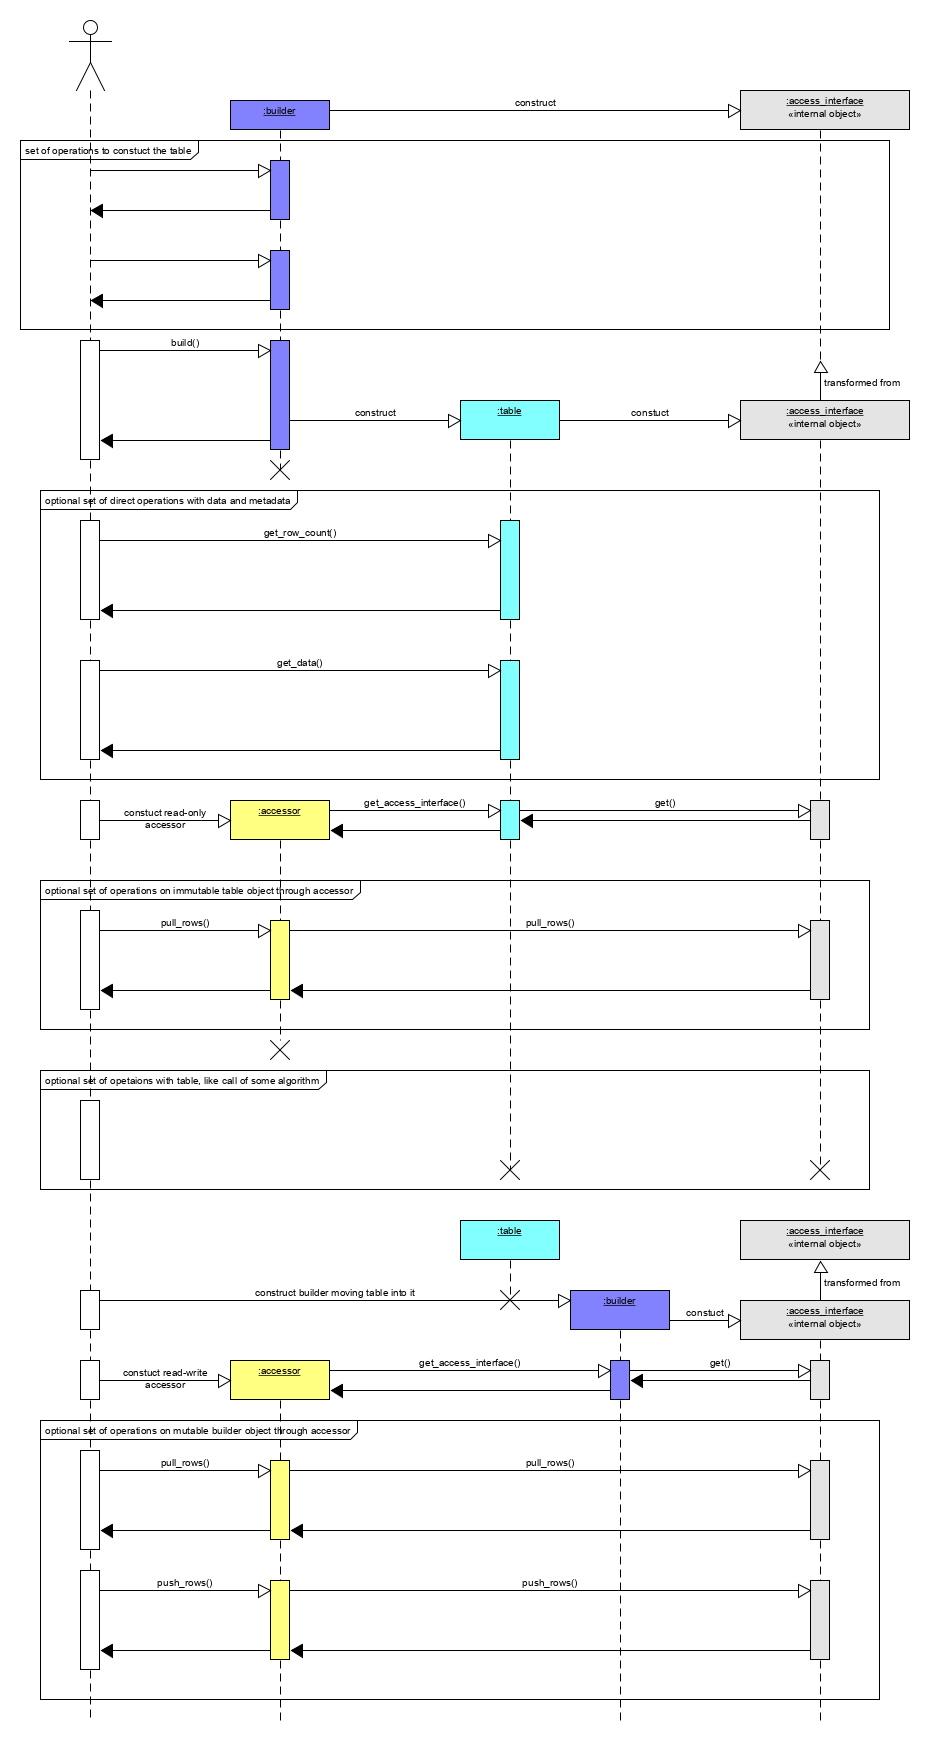
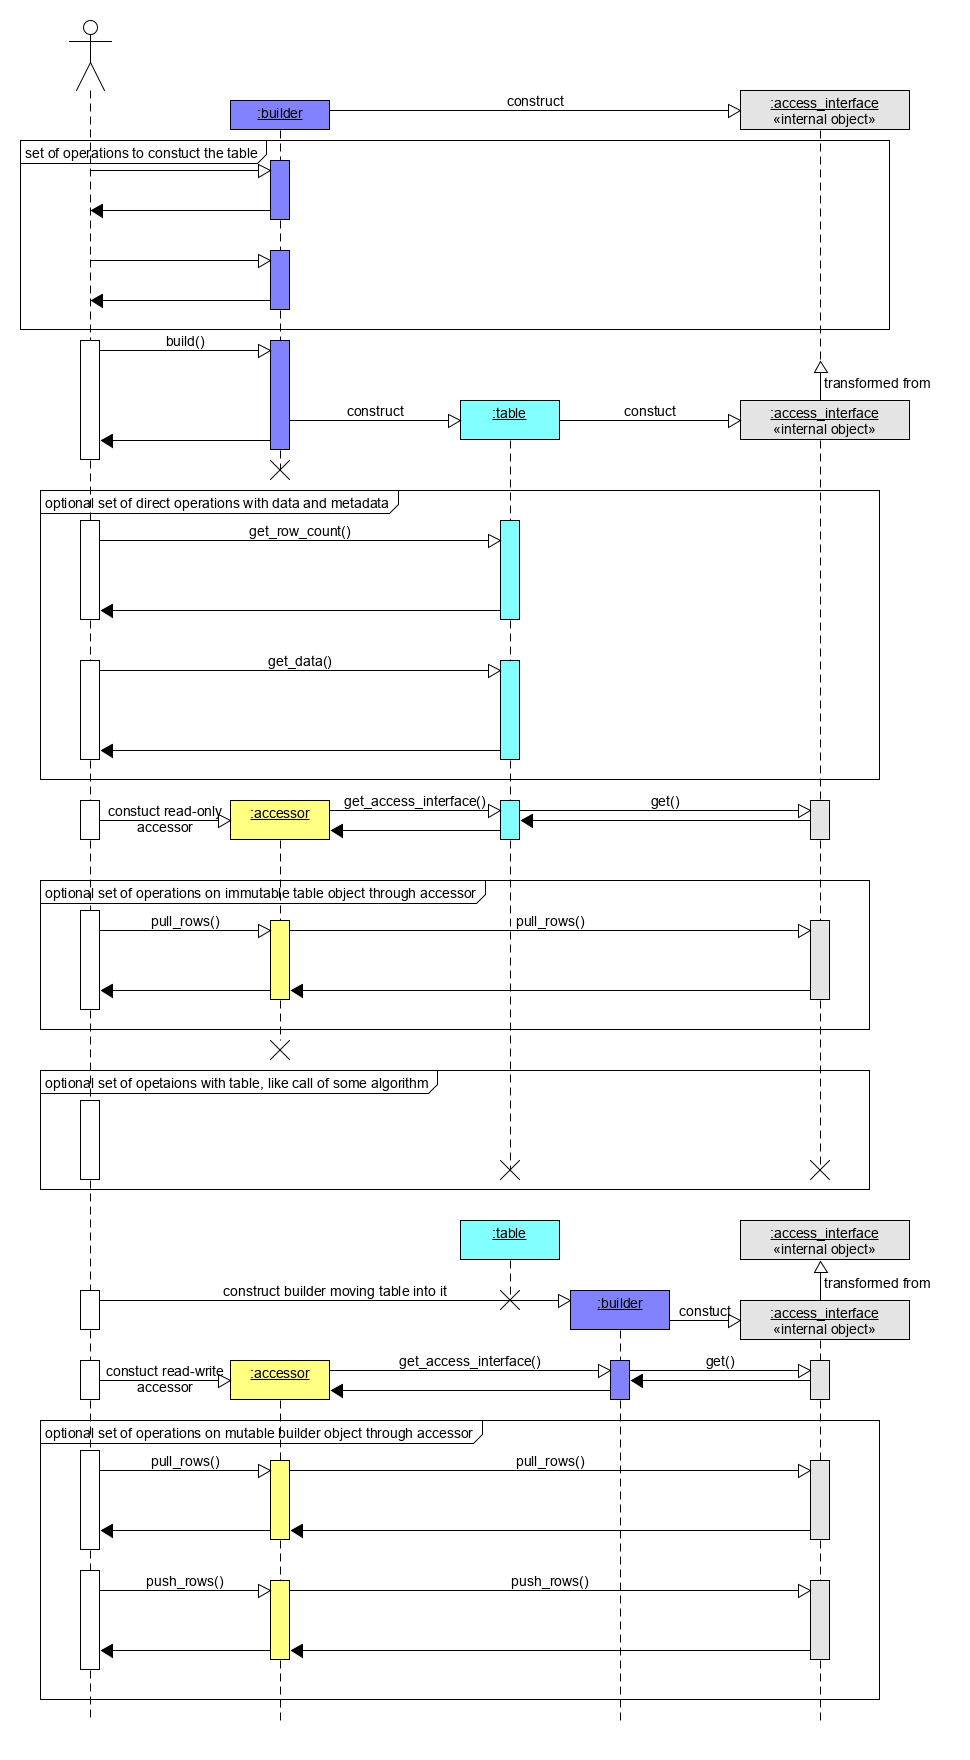
use-case example section fixed

diff --git a/source/elements/oneDAL/source/data_management/index.rst b/source/elements/oneDAL/source/data_management/index.rst
@@ -245,49 +245,44 @@ For details, see :ref:`accessors` section.
 Use-case example for table, accessor and table builder
 ------------------------------------------------------
 
-This section gives an basic usage scenario of :ref:`table`, :ref:`table-builder`
-and :ref:`accessor` concepts and relations between them. The following diagram
-shows objects of these concepts, which are highlighted by colors:
+This section provides a basic usage scenario of the :ref:`table`,
+:ref:`table-builder`, and :ref:`accessor` concepts and demonstrates the
+relations between them. :ref:`The following diagram
+<data_management_sequence_diagram>` shows objects of these concepts, which are
+highlighted by colors:
 
-- :ref:`table-builder` objects are blue
+- :ref:`Table builder <table-builder>` objects are blue.
 
-- :ref:`table` objects are cyan
+- :ref:`Table <table>` objects are cyan.
 
-- :ref:`accessors <Accessor>` are yellow
+- :ref:`Accessors <Accessor>` are yellow.
 
-- objects with gray background color are not a part of |dal_short_name|
-  specification and they are provided just for illustration purposes
+- Grey objects are not a part of |dal_short_name| specification and they are
+  provided just for illustration purposes.
 
-To perform some computations based on the dataset, one shall create a
-:ref:`table` object first. It can be done using :ref:`data-source` or
-:ref:`table-builder` objects depending on the situation. The diagram briefly
-shows a situation when :ref:`table` is created from :ref:`table-builder`
-interatively with calls of various member functions that update internal state
-of the builder. Then, the `build()` method is called which takes a snapshot of
-current builder state and creates a table from it.
-
-Once table object created, the data inside it can be accessed using member
-functions of table object or with help of read-only accessor as shown on the
-diagram. Table can be used in the computations as input or parameter of some
-algorithm.
-
-Algorithms results also contain table objects. If one needs to change the data
-inside some table, builder object can be constructed for this. If table object
-is unique (just only one reference exists), it can be moved inside builder -
-thus no copy operations of data will be performed. Data inside table builder can
-be retrieved by read-only, write-only or read-write accessors.
-
-Accessors present on the diagram allows to get data uniformly from tables and
-table builders as blocks of rows.
-
-Internal "access_interface" object present on the diagram depicts how table and
-table builder may share one implementation with different set of operations
-defined upon it on different stages of the lifetime. It shows how accessor
-object might know how to get data from different kind of objects.
+.. _data_management_sequence_diagram:
 
 .. image:: _static/table_builder_accessor_sequence.png
   :width: 800
   :alt: Sequence diagram of accessor-builder-table relations
+
+To perform computations on a dataset, one shall create a :ref:`table` object
+first. It can be done using a :ref:`data-source` or a :ref:`table-builder`
+object depending on the situation. The diagram briefly shows the situation when
+:ref:`table` is interatively created from a various external entities (not shown
+on a diagram) using a :ref:`table-builder`.
+
+Once a table object is created, the data inside it can be accessed by its own
+interface or with a help of a read-only accessor as shown on the diagram. The
+table can be used as an input in computations or as a parameter of some
+algorithm.
+
+Algorithms' results also contain table objects. If one needs to change the data
+within some table, a builder object can be constructed for this. Data inside a
+table builder can be retrieved by read-only, write-only or read-write accessors.
+
+Accessors present on the diagram allows to get data uniformly from tables and
+table builders as :term:`flat <flat data>` blocks of rows.
 
 Details
 =======
